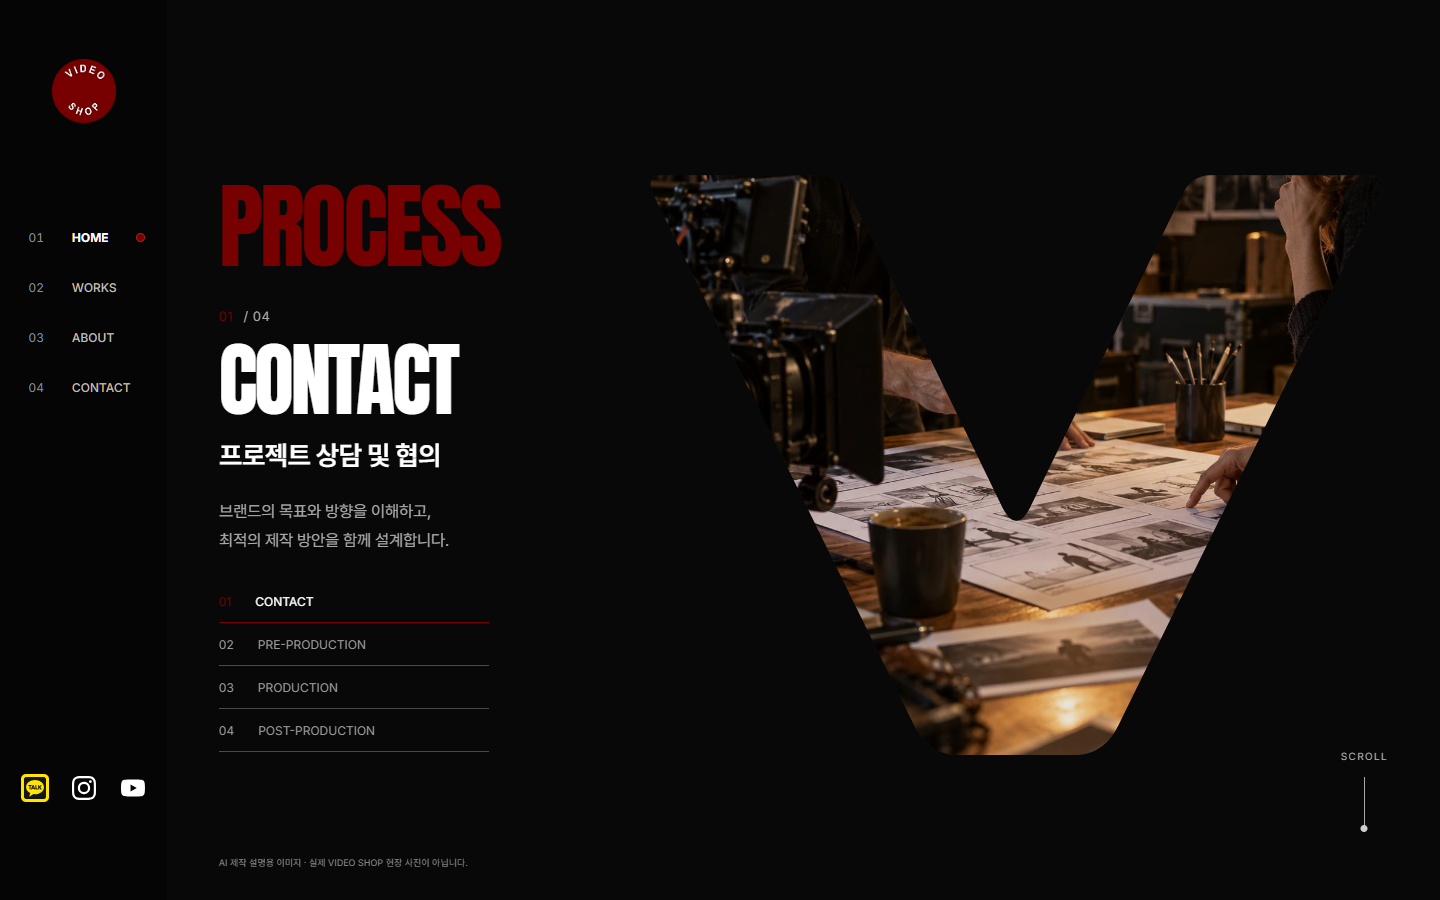
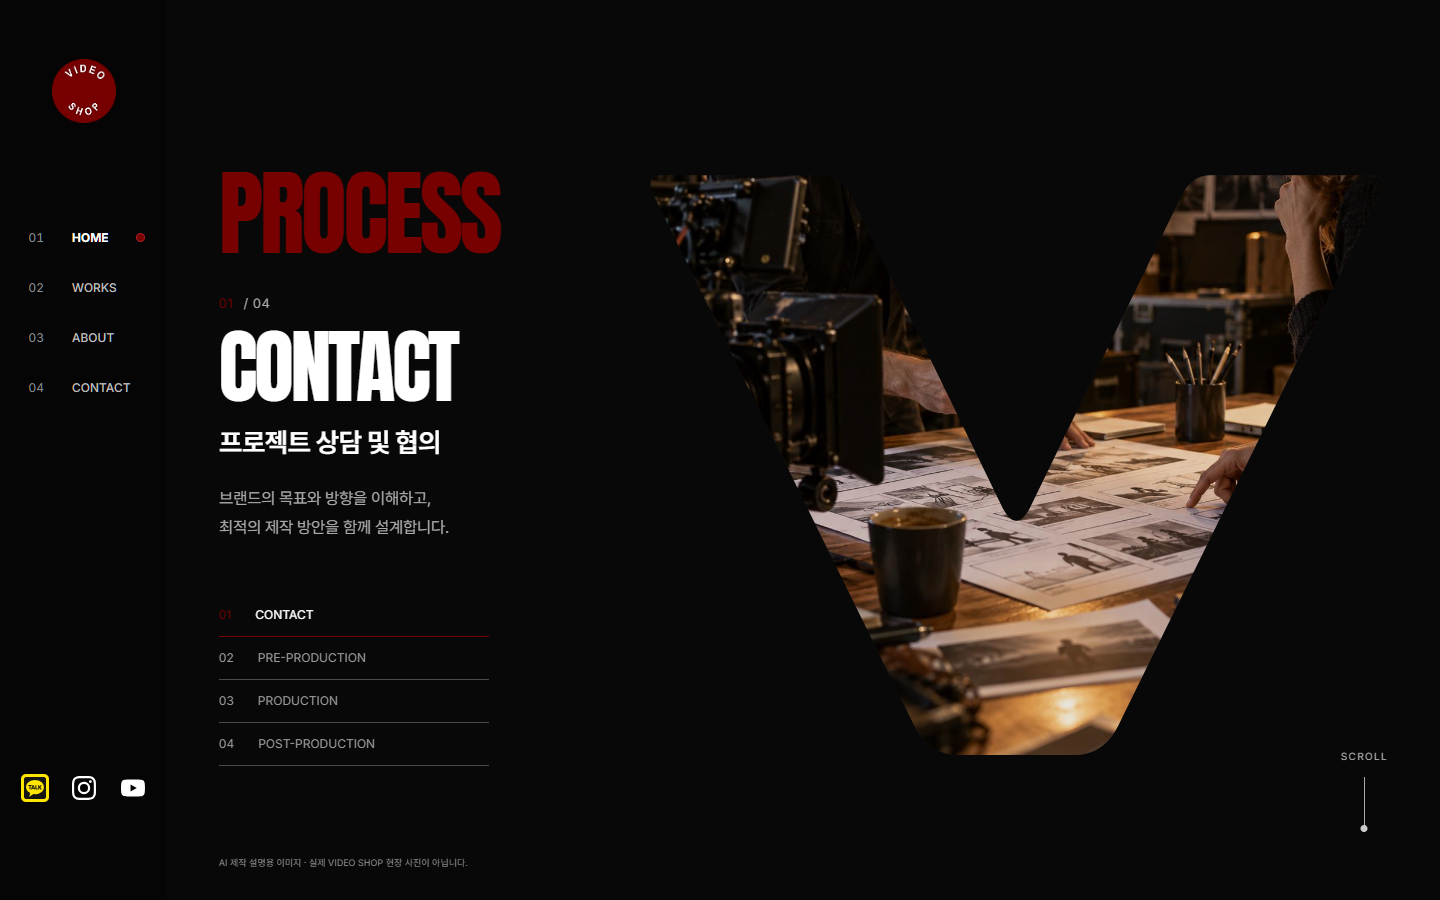
Update Site source

Changed region(s): [[0.1562, 0.1867, 0.3438, 0.6222], [0.1562, 0.6533, 0.2812, 0.84]]

diff --git a/src/styles/process.css b/src/styles/process.css
@@ -7,8 +7,8 @@
 .process-text{align-self:stretch;display:flex;flex-direction:column;justify-content:center;min-width:0}
 .process-text h2,.process-copy h3{font-family:Anton,Impact,'Arial Narrow',sans-serif;font-weight:400;letter-spacing:-.035em;line-height:1.05;margin:0;white-space:nowrap}
 .process-text h2{font-size:clamp(64px,6.5vw,110px);color:var(--red);margin-bottom:32px}
-.process-copy{position:relative;height:250px;flex-shrink:0}
-.process-copy-panel{position:absolute;inset:0;opacity:0;transition:opacity .45s;pointer-events:none}
+.process-copy{display:grid;flex-shrink:0}
+.process-copy-panel{position:relative;grid-area:1/1;align-self:start;min-width:0;opacity:0;transition:opacity .45s;pointer-events:none}
 .process-copy-panel.is-active{opacity:1;pointer-events:auto}
 .process-step-index{display:flex;gap:10px;font-size:13px;letter-spacing:.04em;color:#aaa;margin-bottom:14px}
 .process-copy h3{font-size:clamp(46px,5.6vw,92px);margin-bottom:14px}
@@ -33,10 +33,11 @@
 .process-scroll>span:after{content:'';position:absolute;bottom:0;left:50%;transform:translateX(-50%);width:7px;height:7px;border-radius:50%;background:#ccc}
 .process-steps-mobile{display:none}
 .process-image-note{font-size:9px;color:#888;line-height:1.6;letter-spacing:0;margin:18px 0 0;flex-shrink:0}
-@media(min-width:768px) and (max-width:1279px){.process-stage{padding:35px 28px 22px}.process-layout{grid-template-columns:minmax(225px,.42fr) minmax(0,.58fr);gap:18px;margin-top:30px}.process-text h2{font-size:64px}.process-copy{height:235px}.process-copy h3{font-size:52px}.process-copy h3.process-long-title{font-size:27px;min-height:55px}.process-copy h4{font-size:18px}.process-copy p{font-size:12px}.process-steps button{font-size:10px;gap:16px}.process-v-frame{max-height:65svh}.process-scroll{bottom:40px}}
-@media(min-width:768px) and (max-width:900px){.process-layout{grid-template-columns:1fr;grid-template-rows:auto minmax(0,1fr);gap:20px;margin-top:25px}.process-text{display:grid;grid-template-columns:1fr 1.4fr;gap:20px;align-items:start}.process-text h2{font-size:58px}.process-copy{height:200px}.process-copy h3{font-size:45px}.process-copy h3.process-long-title{font-size:28px;min-height:47px}.process-steps-desktop{display:none}.process-steps-mobile{display:flex;position:absolute;bottom:28px;left:0;right:0}.process-steps-mobile button{flex:1;justify-content:center}.process-step-name{display:none}.process-v-frame{width:100%;max-width:470px;max-height:50svh}.process-scroll{bottom:0}.process-scroll>span{height:20px}.process-image-note{margin-top:35px}}
-@media(max-width:767px){body.process-header-pinned .mobile-header{position:fixed}.process-stage{padding:112px 22px 16px;min-height:720px}.process-layout{display:flex;flex-direction:column;gap:0;margin-top:8px;align-items:stretch}.process-text{flex:0 0 auto;display:block}.process-text h2{font-size:49px;margin-bottom:18px}.process-copy{height:174px}.process-step-index{font-size:10px;gap:7px;margin-bottom:9px}.process-copy h3{font-size:45px;line-height:1.08;margin-bottom:9px}.process-copy h3.process-long-title{font-size:clamp(26px,7.5vw,34px);line-height:1.2;min-height:48px;letter-spacing:-.045em}.process-copy h4{font-size:18px;margin-bottom:12px;line-height:1.4}.process-copy p{font-size:12px;line-height:1.85}.process-visual{flex:1;flex-direction:column;justify-content:flex-start;gap:0}.process-v-frame{flex:1;min-height:0;max-height:35svh;aspect-ratio:auto;width:100%;margin-top:5px}.process-image-layer img{object-position:var(--process-mobile-position)}.process-steps-desktop{display:none}.process-steps-mobile{display:flex;width:100%;margin-top:14px;flex-shrink:0}.process-steps-mobile button{justify-content:center;flex:1;min-height:32px;padding:7px 0;font-size:10px}.process-steps-mobile .process-step-name{display:none}.process-scroll{position:static;gap:6px;font-size:7px;margin-top:16px;flex-shrink:0}.process-scroll>span{height:30px}.process-scroll>span:after{width:6px;height:6px}.process-image-note{font-size:7px;line-height:1.4;margin-top:12px;text-align:center}}
-@media(max-width:767px) and (max-height:760px){.process-stage{padding-top:95px;min-height:650px}.process-text h2{font-size:43px;margin-bottom:13px}.process-copy{height:157px}.process-copy h3{font-size:40px}.process-copy h4{font-size:16px;margin-bottom:9px}.process-copy p{font-size:11px}.process-scroll{margin-top:10px}.process-scroll>span{height:20px}}
+@media(min-width:768px) and (max-width:1279px){.process-stage{padding:35px 28px 22px}.process-layout{grid-template-columns:minmax(225px,.42fr) minmax(0,.58fr);gap:18px;margin-top:30px}.process-text h2{font-size:64px}.process-copy h3{font-size:52px}.process-copy h3.process-long-title{font-size:27px;min-height:55px}.process-copy h4{font-size:18px}.process-copy p{font-size:12px}.process-steps button{font-size:10px;gap:16px}.process-v-frame{max-height:65svh}.process-scroll{bottom:40px}}
+@media(min-width:768px) and (max-width:900px){.process-layout{grid-template-columns:1fr;grid-template-rows:auto minmax(0,1fr);gap:20px;margin-top:25px}.process-text{display:grid;grid-template-columns:1fr 1.4fr;gap:20px;align-items:start}.process-text h2{font-size:58px}.process-copy h3{font-size:45px}.process-copy h3.process-long-title{font-size:28px;min-height:47px}.process-steps-desktop{display:none}.process-steps-mobile{display:flex;position:absolute;bottom:28px;left:0;right:0}.process-steps-mobile button{flex:1;justify-content:center}.process-step-name{display:none}.process-v-frame{width:100%;max-width:470px;max-height:50svh}.process-scroll{bottom:0}.process-scroll>span{height:20px}.process-image-note{margin-top:35px}}
+@media(max-width:767px){body.process-header-pinned .mobile-header{position:fixed}.process-stage{padding:112px 22px 16px;min-height:720px}.process-layout{display:flex;flex-direction:column;gap:0;margin-top:8px;align-items:stretch}.process-text{flex:0 0 auto;display:block}.process-text h2{font-size:49px;margin-bottom:18px}.process-step-index{font-size:10px;gap:7px;margin-bottom:9px}.process-copy h3{font-size:45px;line-height:1.08;margin-bottom:9px}.process-copy h3.process-long-title{font-size:clamp(26px,7.5vw,34px);line-height:1.2;min-height:48px;letter-spacing:-.045em}.process-copy h4{font-size:18px;margin-bottom:12px;line-height:1.4}.process-copy p{font-size:12px;line-height:1.85}.process-visual{flex:1;flex-direction:column;justify-content:flex-start;gap:0}.process-v-frame{flex:1;min-height:0;max-height:35svh;aspect-ratio:auto;width:100%;margin-top:5px}.process-image-layer img{object-position:var(--process-mobile-position)}.process-steps-desktop{display:none}.process-steps-mobile{display:flex;width:100%;margin-top:14px;flex-shrink:0}.process-steps-mobile button{justify-content:center;flex:1;min-height:32px;padding:7px 0;font-size:10px}.process-steps-mobile .process-step-name{display:none}.process-scroll{position:static;gap:6px;font-size:7px;margin-top:16px;flex-shrink:0}.process-scroll>span{height:30px}.process-scroll>span:after{width:6px;height:6px}.process-image-note{font-size:7px;line-height:1.4;margin-top:12px;text-align:center}}
+@media(max-width:767px) and (max-height:760px){.process-stage{padding-top:95px;min-height:650px}.process-text h2{font-size:43px;margin-bottom:13px}.process-copy h3{font-size:40px}.process-copy h4{font-size:16px;margin-bottom:9px}.process-copy p{font-size:11px}.process-scroll{margin-top:10px}.process-scroll>span{height:20px}}
 @media(prefers-reduced-motion:reduce){.process-copy-panel,.process-image-layer{transition:none}}
-.process-copy h3.process-long-title{font-size:clamp(30px,3.8vw,65px)}@media(min-width:901px) and (max-width:1279px){.process-copy h3.process-long-title{font-size:30px}}@media(min-width:768px) and (max-width:900px){.process-copy h3.process-long-title{font-size:36px}}@media(max-width:767px){.process-copy{height:186px}.process-copy h3{min-height:58px;display:flex;align-items:center}.process-copy h3.process-long-title{font-size:clamp(40px,12.5vw,54px);min-height:58px;line-height:1.1}.process-image-note{font-size:8px}}@media(max-width:767px) and (max-height:760px){.process-copy{height:176px}.process-copy h3.process-long-title{font-size:clamp(36px,11.5vw,48px)}}
+.process-copy h3.process-long-title{font-size:clamp(30px,3.8vw,65px)}@media(min-width:901px) and (max-width:1279px){.process-copy h3.process-long-title{font-size:30px}}@media(min-width:768px) and (max-width:900px){.process-copy h3.process-long-title{font-size:36px}}@media(max-width:767px){.process-copy h3{min-height:58px;display:flex;align-items:center}.process-copy h3.process-long-title{font-size:clamp(40px,12.5vw,54px);min-height:58px;line-height:1.1}.process-image-note{font-size:8px}}@media(max-width:767px) and (max-height:760px){.process-copy h3.process-long-title{font-size:clamp(36px,11.5vw,48px)}}
+
 

diff --git a/tests/process.spec.ts b/tests/process.spec.ts
@@ -1,7 +1,7 @@
 import {test,expect,type Page} from '@playwright/test';
 import {mkdirSync} from 'node:fs';
 
-const sizes=[{width:1920,height:1080},{width:1440,height:900},{width:1280,height:800},{width:1024,height:768},{width:768,height:1024},{width:430,height:932},{width:390,height:844},{width:375,height:812}];
+const sizes=[{width:1920,height:1080},{width:1920,height:900},{width:1440,height:900},{width:1280,height:800},{width:1024,height:768},{width:768,height:1024},{width:430,height:932},{width:390,height:844},{width:375,height:812}];
 const titles=['CONTACT','PRE-PRODUCTION','PRODUCTION','POST-PRODUCTION'];
 async function scrollStep(page:Page,index:number){
   await page.evaluate(index=>{
@@ -30,6 +30,14 @@ for(const size of sizes){test(`PROCESS scroll ${size.width}x${size.height}`,asyn
     await expect(panel.locator('h3')).toHaveText(titles[index]);
     const title=panel.locator('h3');
     expect(await title.evaluate(element=>element.scrollWidth<=element.clientWidth+1)).toBe(true);
+    const description=await panel.locator('p').boundingBox();
+    const copyArea=await page.locator('.process-copy').boundingBox();
+    const descriptionBottom=description!.y+description!.height;
+    expect(descriptionBottom).toBeLessThanOrEqual(copyArea!.y+copyArea!.height+1);
+    if(size.width>=901){
+      const list=await page.locator('.process-steps-desktop').boundingBox();
+      expect(list!.y-descriptionBottom).toBeGreaterThanOrEqual(20);
+    }else expect(frame!.y-descriptionBottom).toBeGreaterThanOrEqual(4);
     const navigation=page.locator(size.width<901?'.process-steps-mobile':'.process-steps-desktop');
     await expect(navigation.locator('[aria-current=step]')).toContainText(String(index+1).padStart(2,'0'));
     expect(await page.evaluate(()=>document.documentElement.scrollWidth<=innerWidth)).toBe(true);
@@ -45,7 +53,7 @@ for(const size of sizes){test(`PROCESS scroll ${size.width}x${size.height}`,asyn
       const copy=await panel.boundingBox();
       expect(copy!.y+copy!.height).toBeLessThanOrEqual(frame!.y+1);
     }else await expect(page.locator('.sidebar nav a.active')).toContainText('HOME');
-    if(index===0||size.width===390){
+    if(index===0||index===3||size.width===390){
       mkdirSync('verification/process',{recursive:true});
       // Motion reduction makes the screenshot represent the settled state without timing assumptions.
       await page.emulateMedia({reducedMotion:'reduce'});
